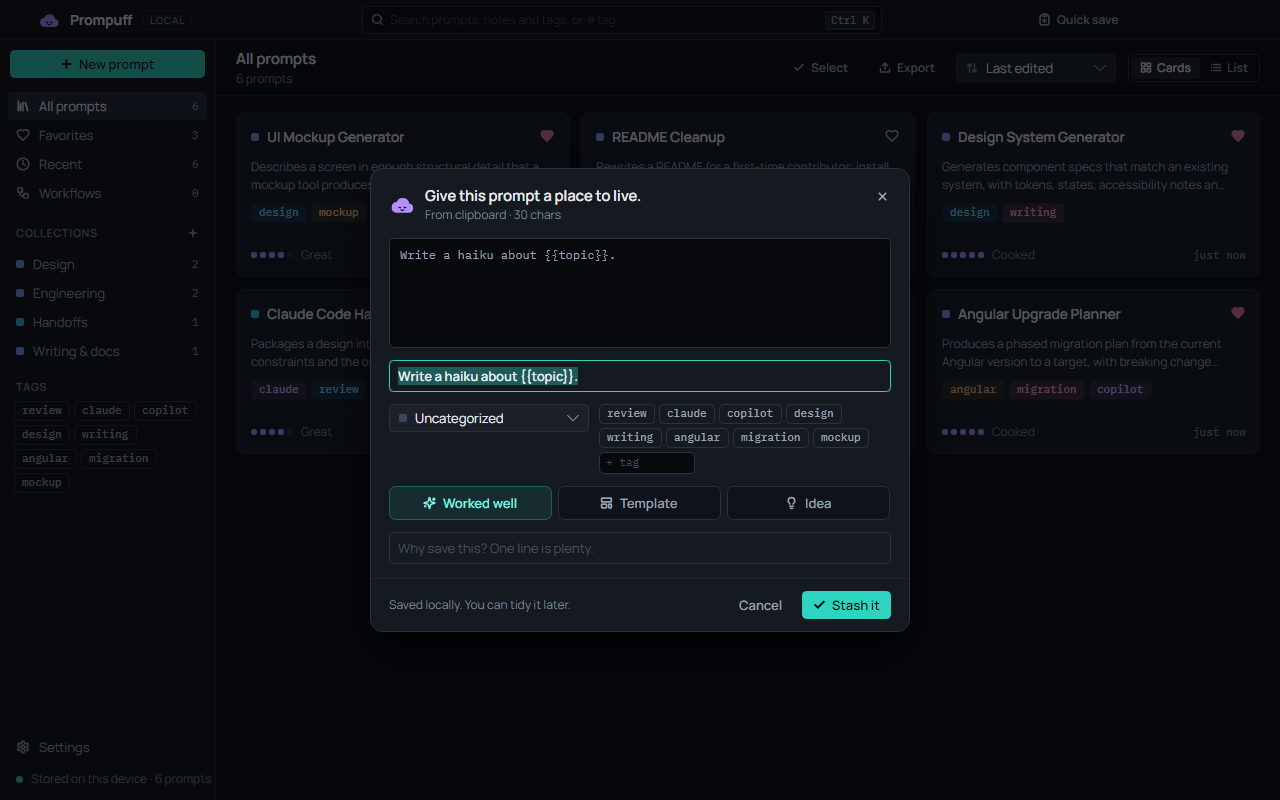
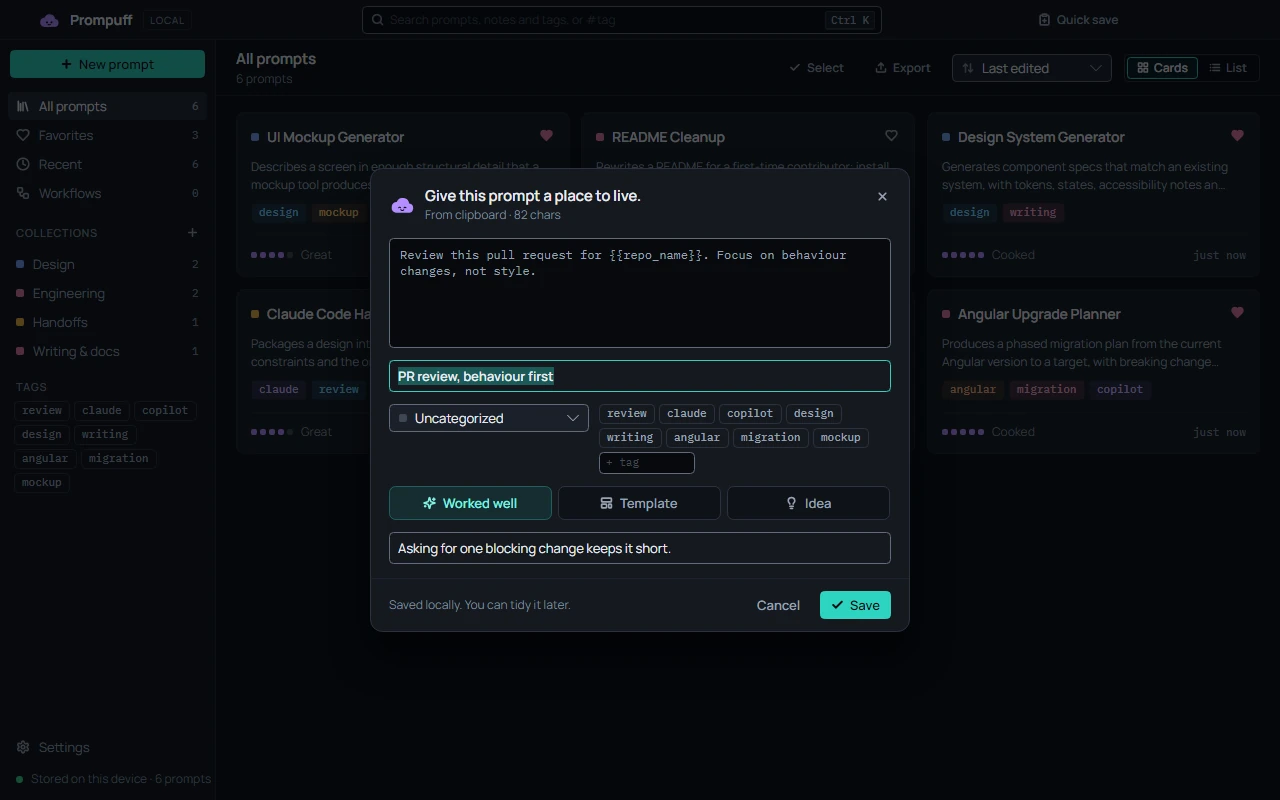
fix(quick-save): call its button Save
Buttons stay plain, as AGENTS.md asks, and Stash it was the one that didn't. The user guide, and the website's Quick save screenshot and its alt text, follow.

diff --git a/site/index.html b/site/index.html
@@ -168,7 +168,7 @@
               <p>Copy a prompt in any app and press <kbd>Ctrl+Alt+P</kbd> (<kbd>⌃⌥P</kbd> on a Mac). Quick save opens with your clipboard, <kbd>Enter</kbd> stashes it, and you’re back where you were.</p>
             </div>
             <figure class="shot step-shot">
-              <img src="assets/screenshots/quick-save.webp" width="1280" height="800" loading="lazy" decoding="async" alt="The Quick save dialog over the library, holding a copied prompt with a suggested title, a collection picker, tags, and Worked well, Template and Idea buttons above Stash it.">
+              <img src="assets/screenshots/quick-save.webp" width="1280" height="800" loading="lazy" decoding="async" alt="The Quick save dialog over the library, holding a copied prompt with a suggested title, a collection picker, tags, Worked well, Template and Idea buttons, a note, and Save.">
             </figure>
           </div>
 

diff --git a/docs/user-guide.md b/docs/user-guide.md
@@ -101,7 +101,7 @@ Quick save stashes a prompt in a few seconds:
 1. Copy the prompt in any app.
 2. Press **Ctrl+Alt+P** (⌃⌥P on macOS) from anywhere, or Ctrl+Shift+S inside Prompuff, or choose **Quick save** at the top of the window.
 3. Quick save opens with what you copied and a title guessed from it. Pick a collection and tags if you like, and **Worked well** (rates it Great), **Template** or **Idea** (add those tags). The **Why save this?** line becomes its notes.
-4. Choose **Stash it**. After a hotkey Quick save, Prompuff goes back to the tray or the taskbar if that's where it was, so you land back in your app.
+4. Choose **Save**. After a hotkey Quick save, Prompuff goes back to the tray or the taskbar if that's where it was, so you land back in your app.
 
 **Change the hotkey** in Settings › Quick save: choose **Change** and press the new keys, which need Ctrl, Alt or the Windows, Super or ⌘ key, plus a letter, digit, F1–F12 or Space. Settings says when another app already owns a combination. **Turn off** turns it off.
 
